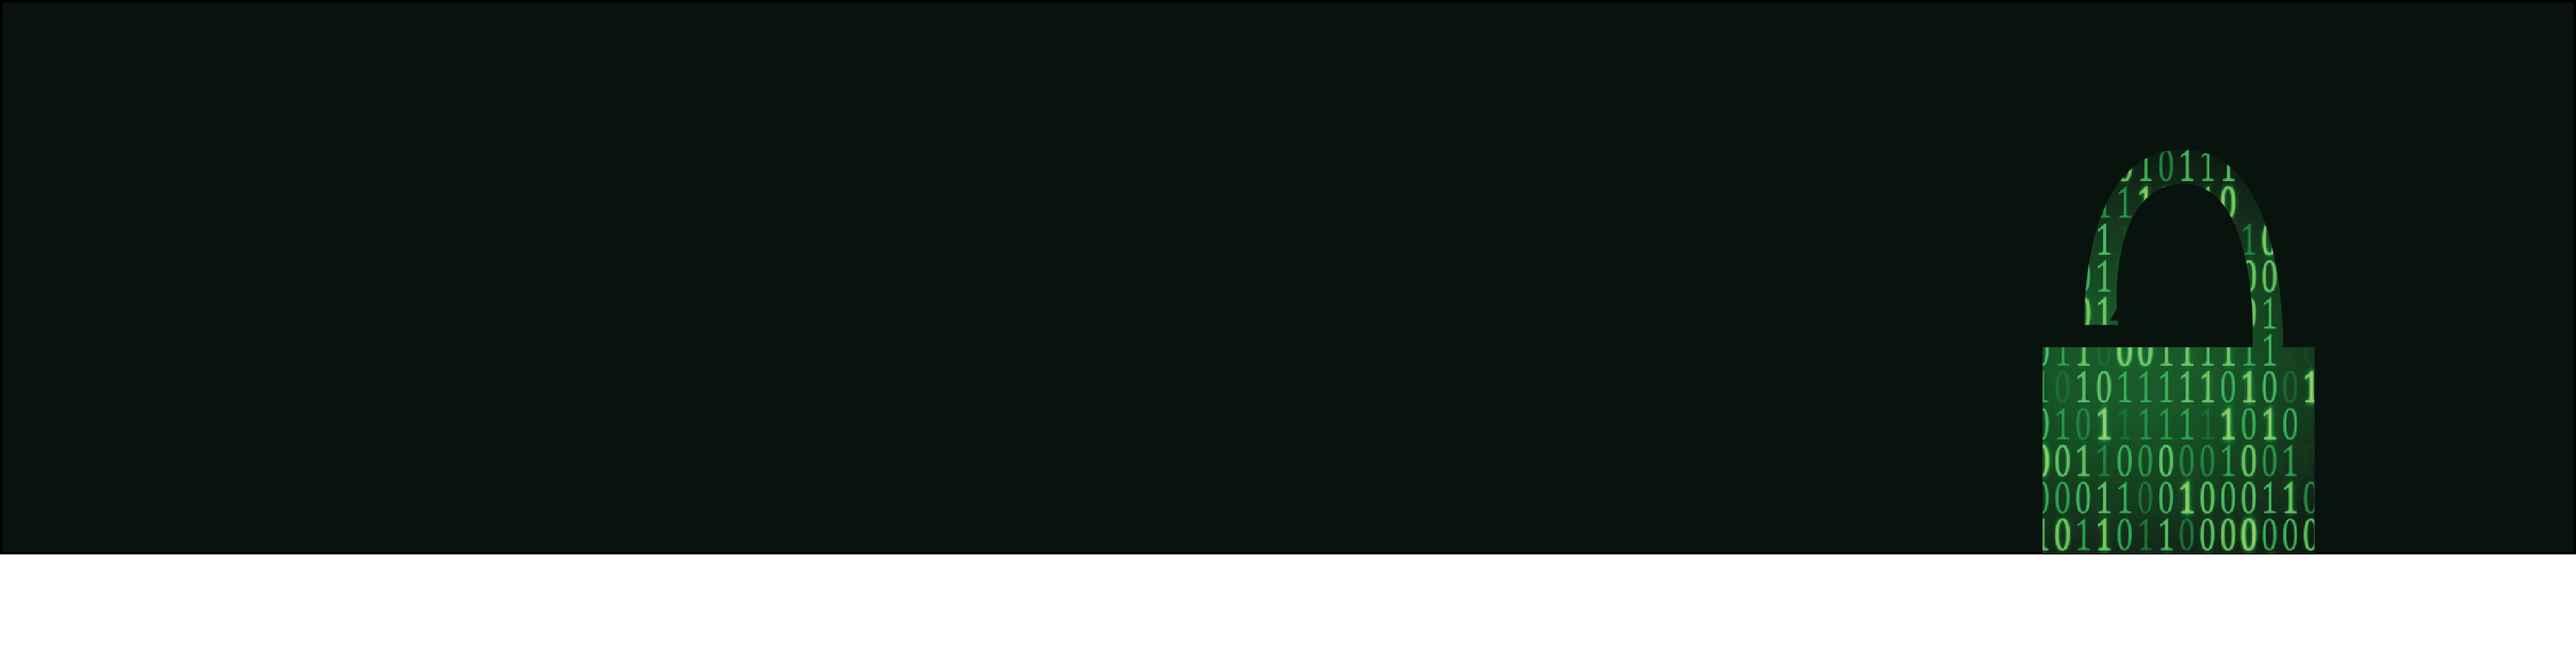
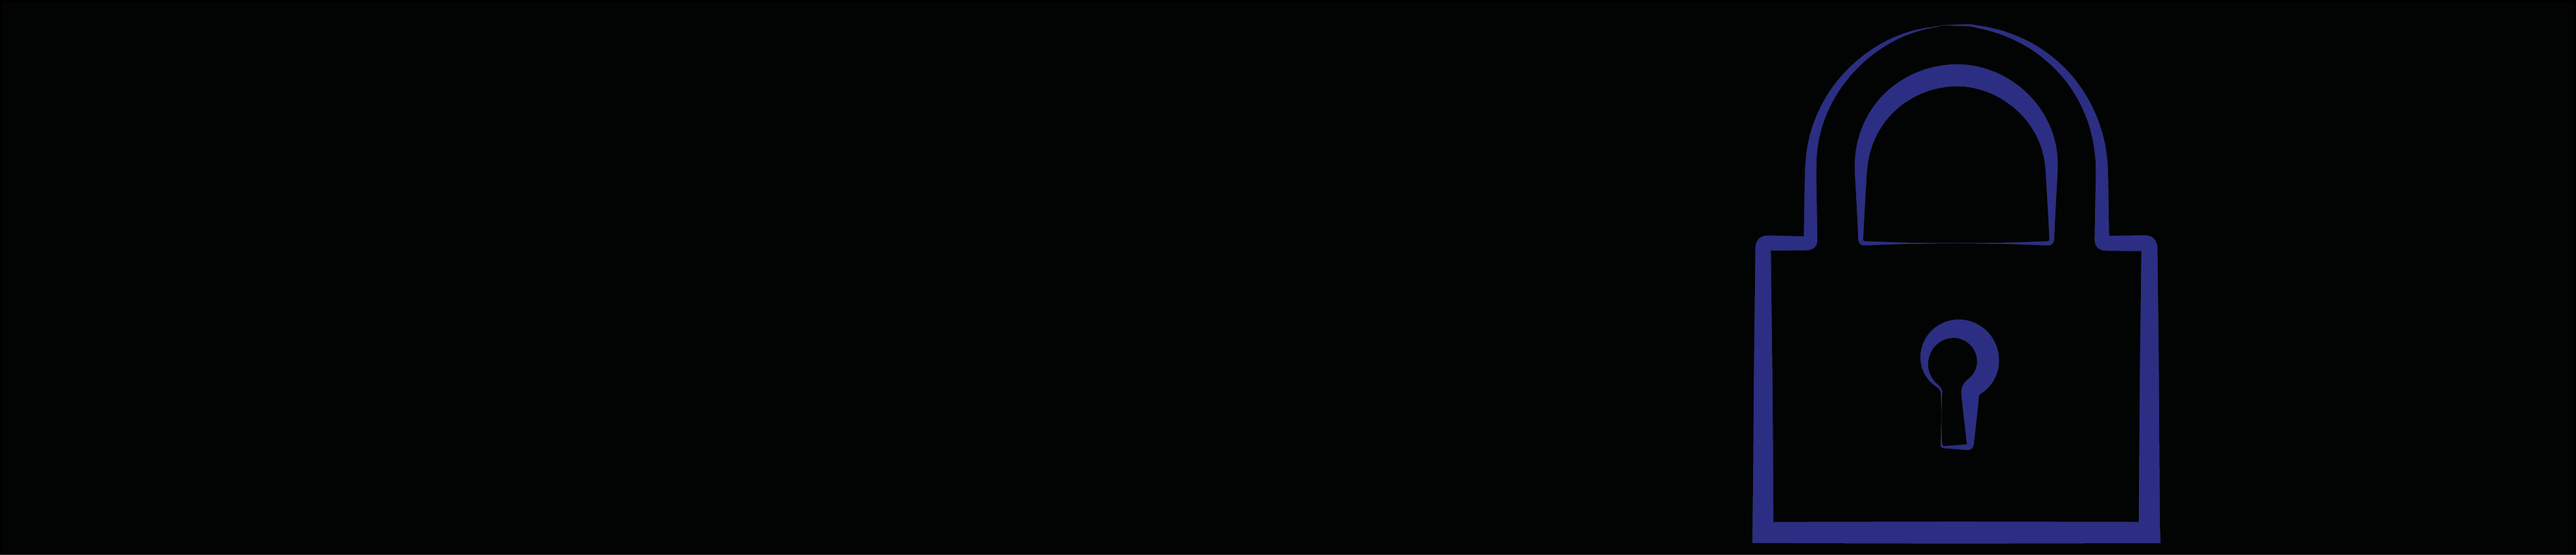
update

Changed region(s): [[0.0, 0.0615, 1.0, 1.0], [0.746, 0.0307, 0.7771, 0.0615]]

diff --git a/style.css b/style.css
@@ -1,15 +1,54 @@
+.texto-banner {
+    font-family: "Protest Revolution", sans-serif;
+    font-weight: 400;
+    font-style: normal;
+  }  
 .banner{
     width: 100%;
 }
 body{
-    background-color: rgb(0, 20, 2);
+    background-color: rgb(78, 82, 78);
 }
-body h1{
+.contenedor{
+    position: relative;
+    display: inline-block;
     text-align: center;
-    font-size: 30px;
+}
+.texto-banner{
+    position: absolute; 
+    top: 10px;
+    left: 10px;
+    font-size: 50px;
+    color: white;
+    margin-top: 110px;
+    margin-left: 200px;
+}
+body h2{
+    text-align: center;
+    font-size: 40px;
     color: white;
 }
-textarea{
+.textInput{
+    display: inline-block;
+    margin-left: 20%;
+    margin-top: 25px;
+    width: 300px;
+    height: 150px;
+    background-color: #777777;
+}
+.textOutput{
+    display: inline-block;
+    margin-left: 20%;
+    margin-top: 25px;
+    width: 300px;
+    height: 150px;
+    background-color: #777777;
+}
+input{
     display: block;
     margin: auto;
+    margin-top: 20px;
+    padding: 10px;
+    color: white;
+    background-color: green;
 }

diff --git a/index.html b/index.html
@@ -6,16 +6,22 @@
     <title>Encriptador</title>
     <link rel="stylesheet" href="reset.css">
     <link rel="stylesheet" href="style.css">
+    <link rel="preconnect" href="https://fonts.googleapis.com">
+    <link rel="preconnect" href="https://fonts.gstatic.com" crossorigin>
+    <link href="https://fonts.googleapis.com/css2?family=Protest+Revolution&display=swap" rel="stylesheet">
 </head>
 
 <body>
     <header>
-        <img class="banner" src="images/cyber_lock.png" alt="Banner de criptografia">
-        <h1>¿Deseas encriptar un mensaje?</h1>
-    <textarea class="textInput">
-    </textarea>   
-    
-</header> 
+        <div class="contenedor">
+            <img class="banner" src="images/cyber_lock.png" alt="Banner de criptografia">
+            <h1 class="texto-banner">Encriptador de textos</h1>
+        </div>
+    </header> 
+    <h2>¿Desea encriptar un texto?</h2>
+<textarea class="textInput"></textarea>
+<textarea class="textOutput"></textarea>
+<input class="submit" type="submit" value="Encriptar">   
 </body>
 <footer>
 
